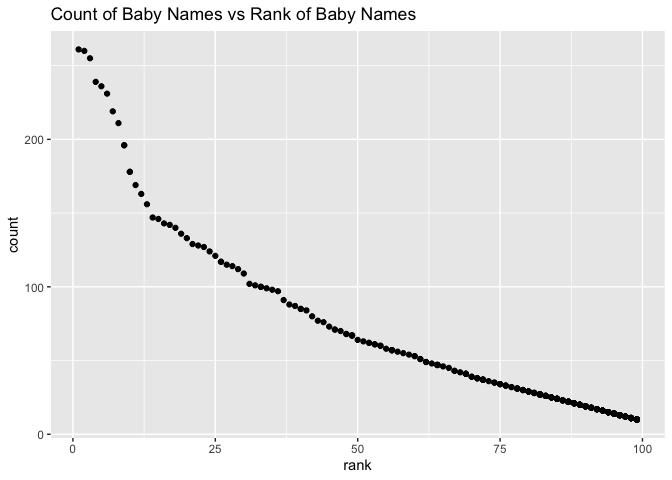
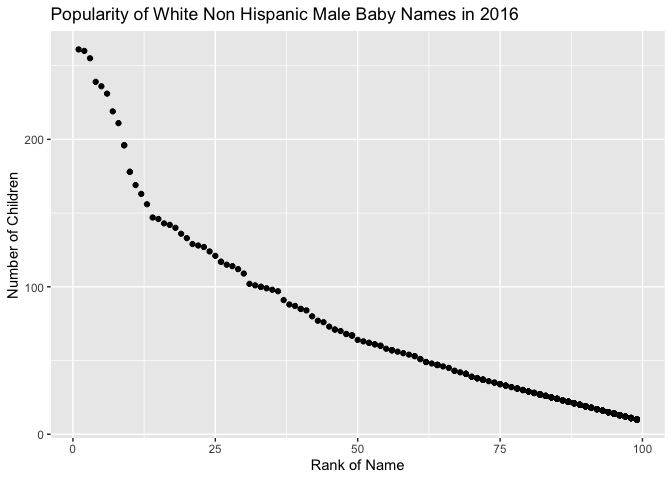
small edits

Changed region(s): [[0.0625, 0.0, 0.7812, 0.0625], [0.0, 0.3438, 0.0312, 0.625], [0.4688, 0.9375, 0.5938, 1.0]]

diff --git a/p8105_hw2_sp4029.md b/p8105_hw2_sp4029.md
@@ -116,7 +116,7 @@ Once these three datasets are combined, the resulting data set contains
 dataset range from 1947 to 2015. Some key variables include `president`,
 `close`, and `unemp_rate`. Of the observations in the combined dataset,
 390 of the months had a democratic president, and 432 had a republican
-president. The mean closing value in 2008 was 1215.22 while the mean
+president. The mean closing value in 2008 was 1215.22, while the mean
 unemployment rate was 5.8 that year.
 
 ### Problem 3
@@ -191,7 +191,9 @@ baby_names %>%
   ggplot(aes(x = rank, y = count)) +
   geom_point() + 
   labs(
-    title = "Count of Baby Names vs Rank of Baby Names"
+    title = "Popularity of White Non Hispanic Male Baby Names in 2016",
+    x = "Rank of Name",
+    y  = "Number of Children"
   )
 ```
 
